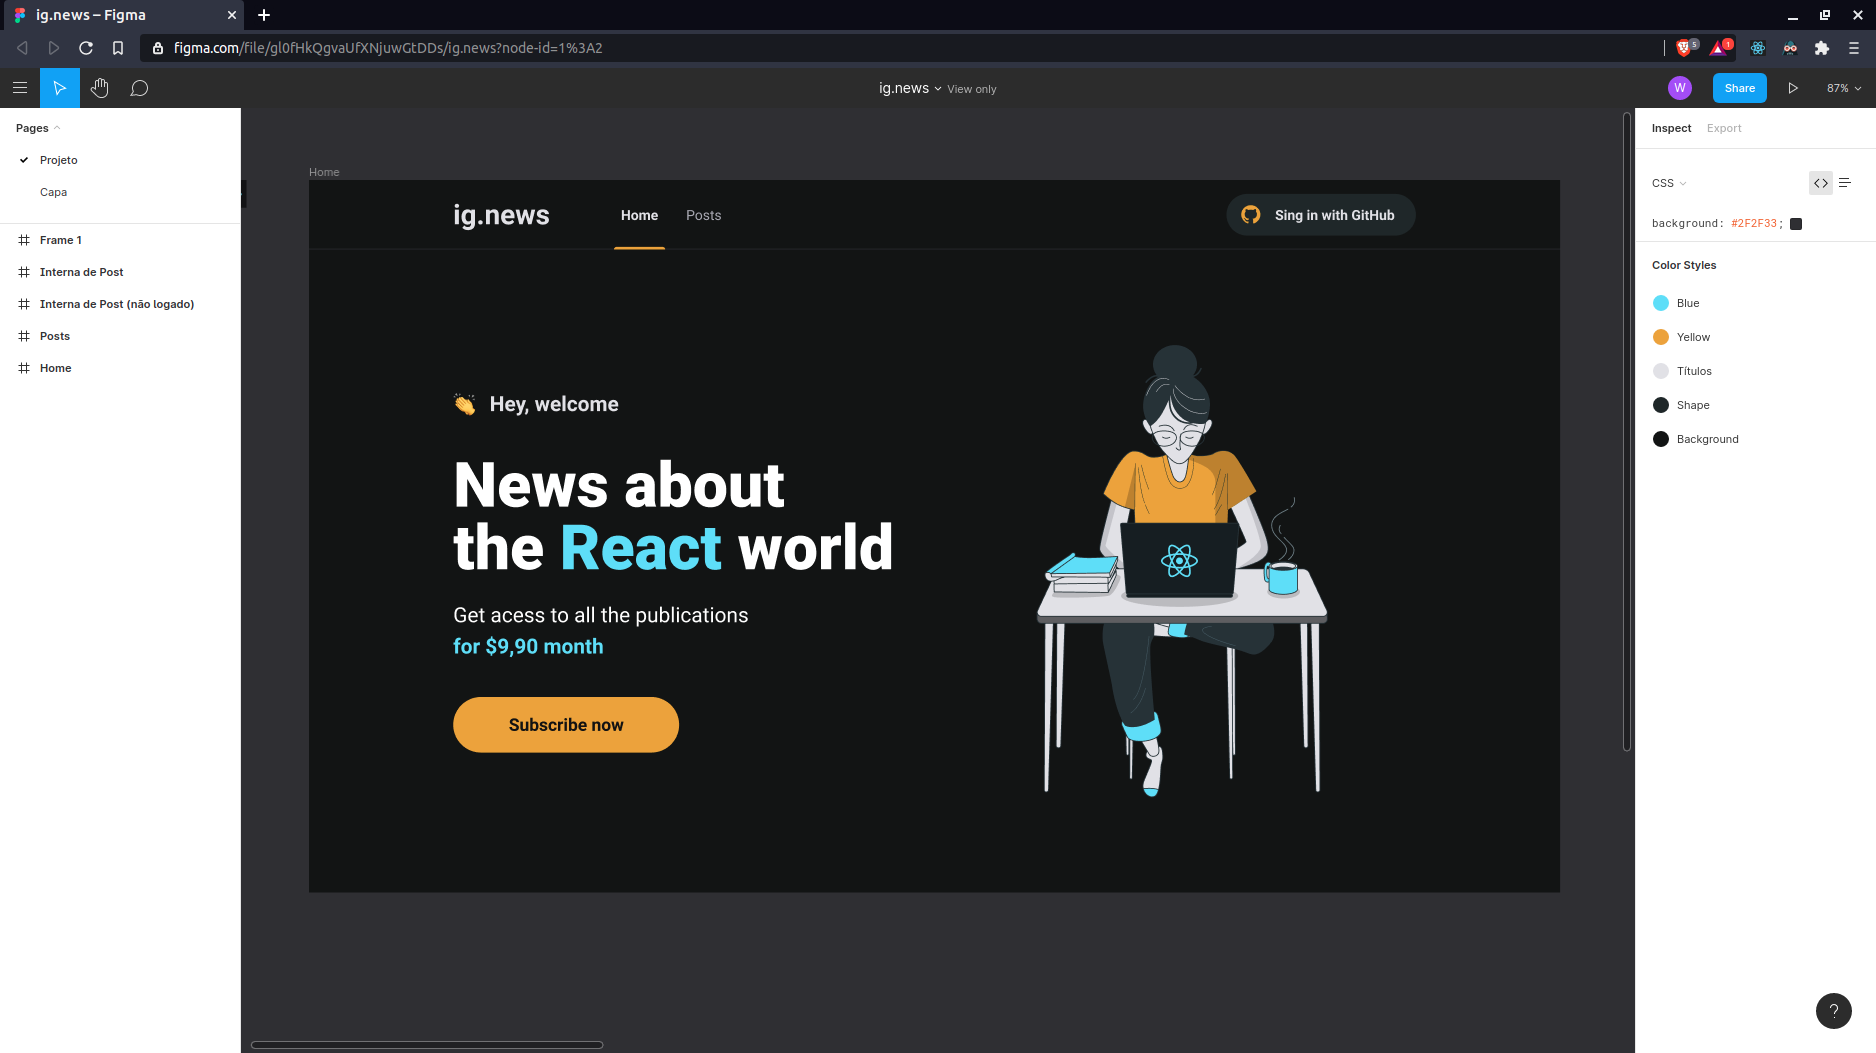
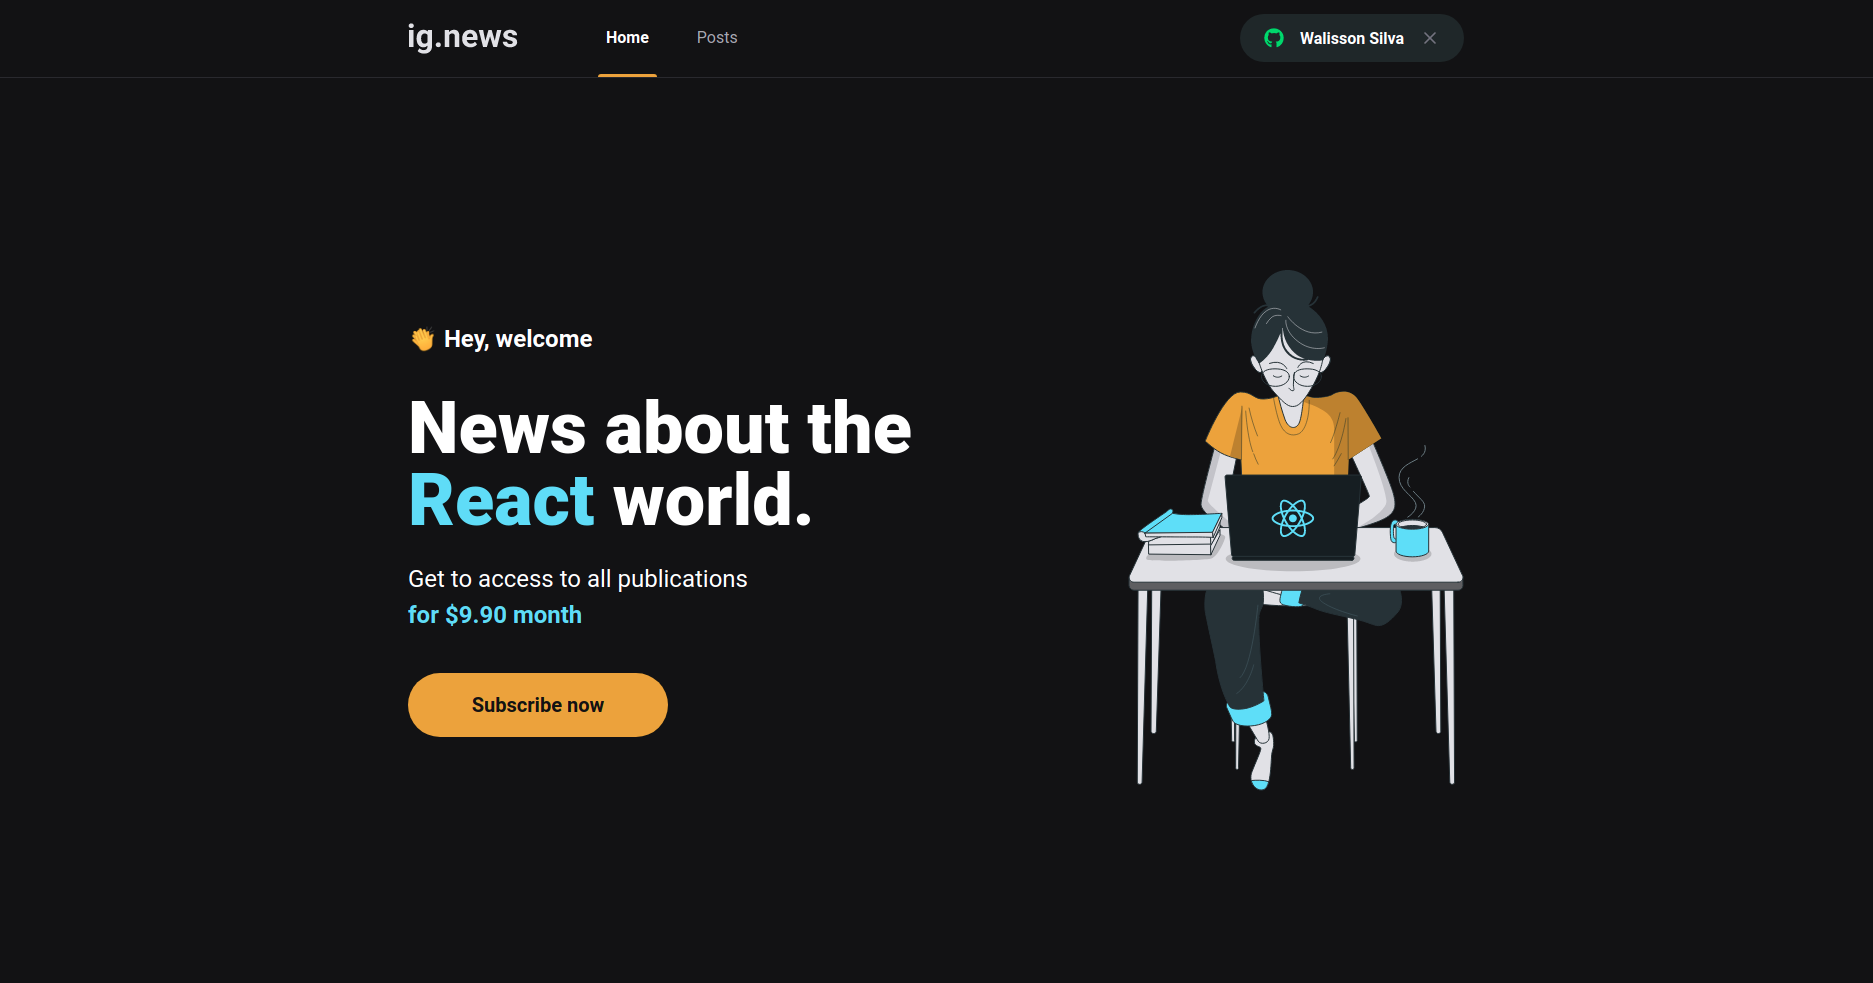
chore: add integration with stripe api

diff --git a/src/pages/index.tsx b/src/pages/index.tsx
@@ -1,9 +1,20 @@
+import { GetServerSideProps } from 'next';
 import Head from 'next/head';
+
 import { SubscribeButton } from '../components/SubscribeButton';
+
+import { stripe } from '../services/stripe';
 
 import styles from './home.module.scss';
 
-export default function Home() {
+interface HomeProps {
+  product: {
+    priceId: string;
+    amount: Number;
+  }
+}
+
+export default function Home({ product }: HomeProps) {
   return (
     <>
       <Head>
@@ -16,14 +27,34 @@ export default function Home() {
           <h1>News about the <span>React</span> world.</h1>
           <p>
             Get to access to all publications <br/>
-            <span>for $9.90 month</span>
+            <span>for {product.amount} month</span>
           </p>
 
-          <SubscribeButton />
+          <SubscribeButton priceId={product.priceId} />
         </section>
 
         <img src="/images/avatar.svg" alt="Girl Coding"/>
       </main>
     </>
   )
+}
+
+export const getServerSideProps: GetServerSideProps = async () => {
+  const price = await stripe.prices.retrieve('price_1IYUziEz76BSqA1pjpLFuLeX', {
+    expand: ['product'],
+  });
+
+  const product = {
+    priceId: price.id,
+    amount: new Intl.NumberFormat('en-US', {
+      style: 'currency',
+      currency: 'USD'
+    }).format(price.unit_amount / 100),
+  }
+
+  return {
+    props: {
+      product
+    },
+  }
 }

diff --git a/src/services/stripe.ts b/src/services/stripe.ts
@@ -1,0 +1,13 @@
+import Stripe from 'stripe';
+import { version } from '../../package.json';
+
+export const stripe = new Stripe(
+  process.env.STRIPE_API_KEY,
+  {
+    apiVersion: '2020-08-27',
+    appInfo: {
+      name: 'Ignews',
+      version: version,
+    }
+  }
+)

diff --git a/src/components/SubscribeButton/index.tsx b/src/components/SubscribeButton/index.tsx
@@ -1,6 +1,10 @@
 import styles from './styles.module.scss';
 
-export function SubscribeButton() {
+interface SubscribeButtonProps {
+  priceId: string;
+}
+
+export function SubscribeButton({ priceId }: SubscribeButtonProps) {
   return (
     <button
       type="button"

diff --git a/README.md b/README.md
@@ -1,6 +1,6 @@
 # ig.news
 
-Link da Aplicação no Figma: [Acessar aqui.](https://www.figma.com/file/gl0fHkQgvaUfXNjuwGtDDs/ig.news?node-id=1%3A2)
+Link da Aplicação no Figma: [Acessar aqui.](https://www.figma.com/file/YM4JFm0d4b4TovqmCNrgRW/ig.news?node-id=1%3A2)
 
 ## Homepage da Aplicação no Figma
 
